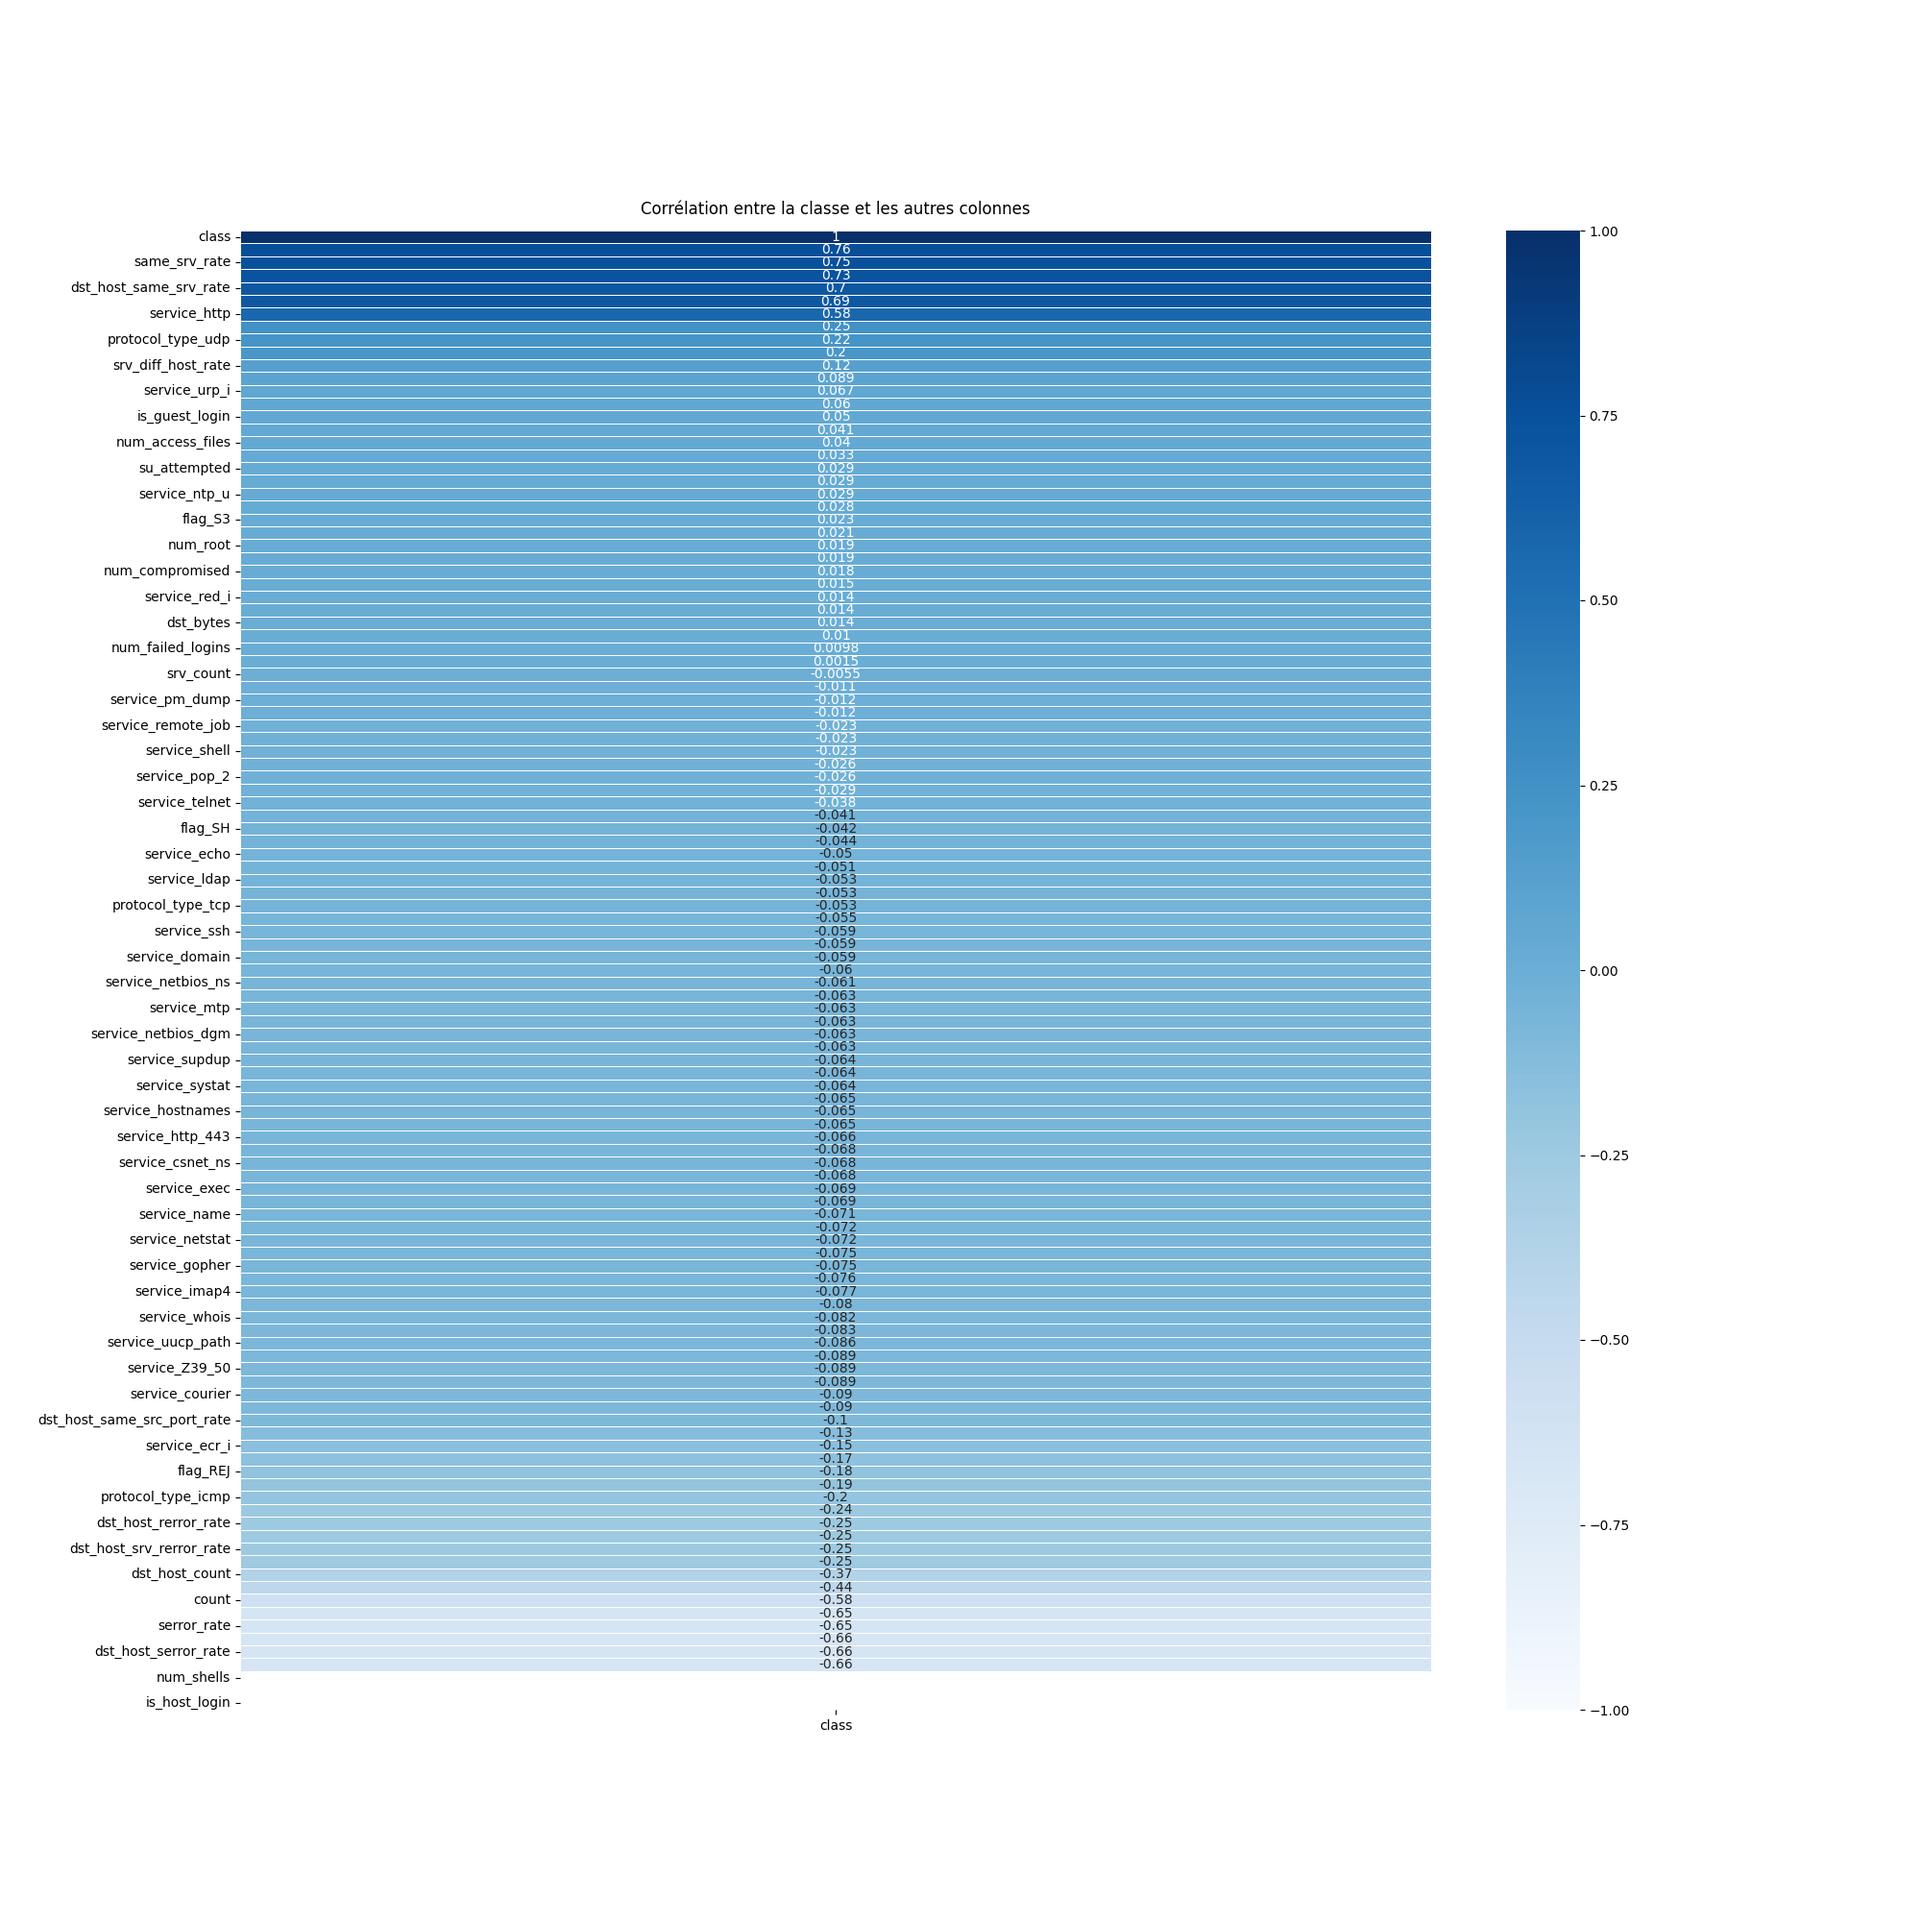
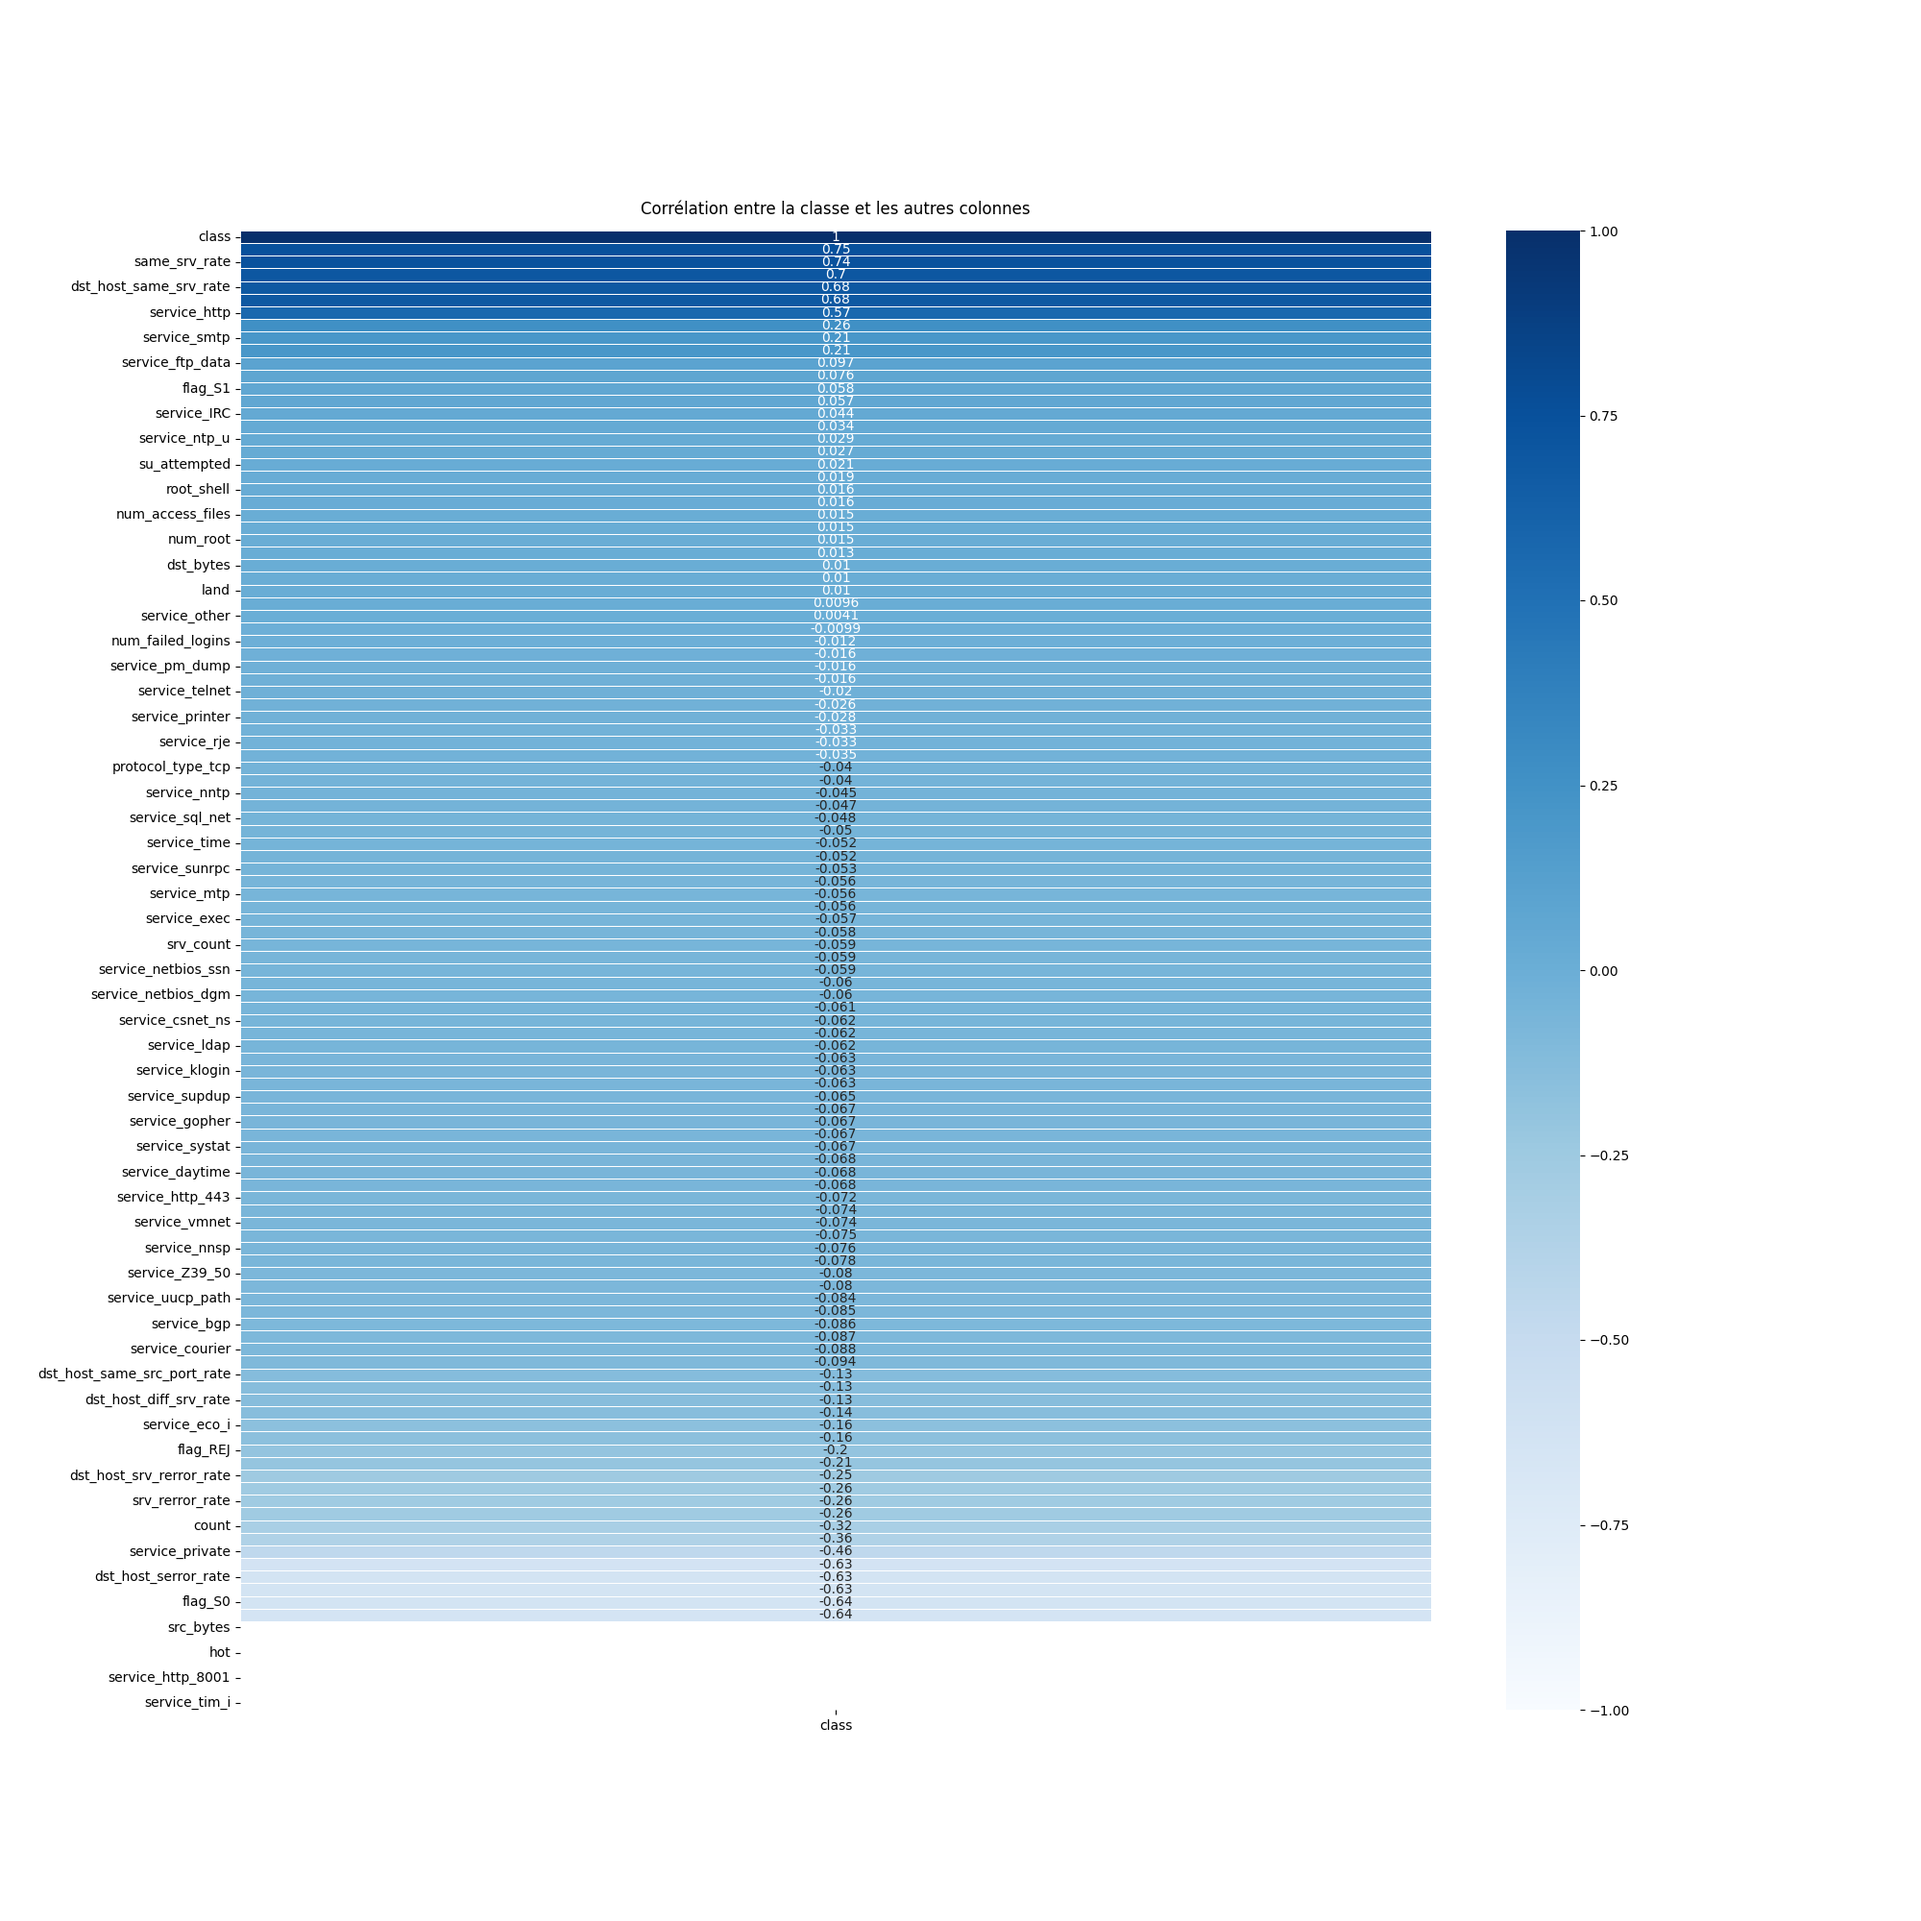
Corrélation entre la classe et les autres colonnes

Changed region(s): [[0.031, 0.124, 0.744, 0.899]]

diff --git a/exploration_des_donnees.py b/exploration_des_donnees.py
@@ -116,21 +116,18 @@ def impression_statistiques(jeu_de_donnees : str, colonnes_binaires : list, colo
     print( data_frame.isnull().sum(axis=0) )
 
 
-#def correlation_classe_autres_colonnes(jeu_de_donnees : str) -> None : 
-#    '''
-#    '''
-#    figure(figsize=(20, 20))
-#   data_frame = conversion_colonnes_nominales_en_colonnes_numeriques(jeu_de_donnees, ['protocol_type', 'service', 'flag', 'class'])
+def correlation_classe_autres_colonnes(jeu_de_donnees : str) -> None : 
+    '''
+    '''
+    figure(figsize=(20, 20))
+    data_frame = read_csv(jeu_de_donnees)
 
-#   correlation = heatmap(data_frame.iloc[:,:].corr()[['class']].sort_values(by='class', ascending=False), linewidth=.5, cmap='Blues', annot=True, vmin=-1, vmax=1)
-#    correlation.set_title('Corrélation entre la classe et les autres colonnes', fontdict={'fontsize':12}, pad=12);
-#    savefig("correlation")
-
-
+    correlation = heatmap(data_frame.iloc[:,:].corr()[['class']].sort_values(by='class', ascending=False), linewidth=.5, cmap='Blues', annot=True, vmin=-1, vmax=1)
+    correlation.set_title('Corrélation entre la classe et les autres colonnes', fontdict={'fontsize':12}, pad=12);
+    savefig("correlation")
 
 if __name__ == '__main__' :
     noms_colonnes = obtenir_noms_colonnes_csv('jeu_de_donnees.csv')
     repartition_colonnes = repartition_colonnes_selon_type_donnees_dans_colonne('jeu_de_donnees.csv', noms_colonnes)
-    print(repartition_colonnes)
     impression_statistiques('jeu_de_donnees.csv', repartition_colonnes['BINAIRE'], repartition_colonnes['NOMINAL'], repartition_colonnes['NUMERIQUE'])
-    #correlation_classe_autres_colonnes('entrainement.csv')
+    correlation_classe_autres_colonnes('entrainement.csv')
